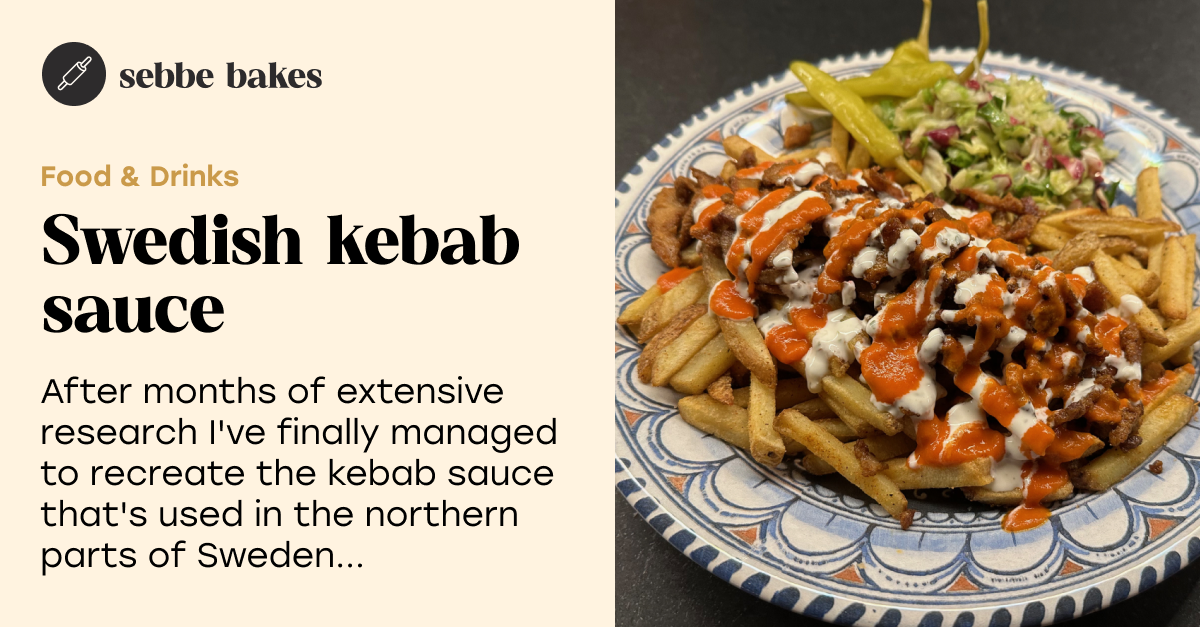
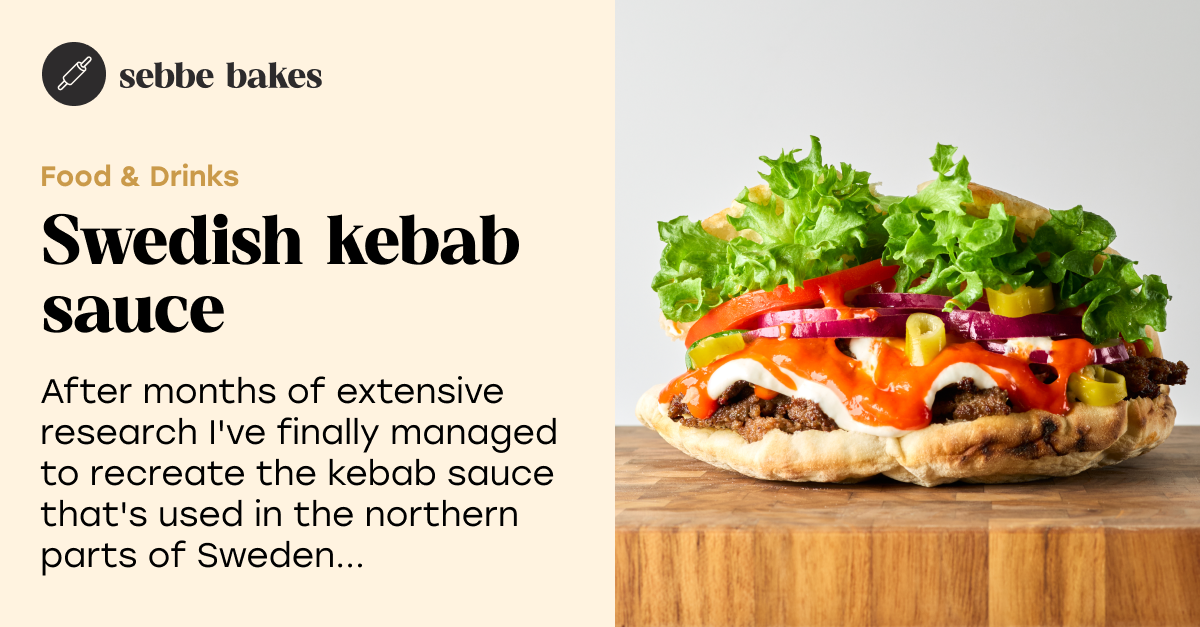
Update kebab images

diff --git a/src/constants/recipes.ts b/src/constants/recipes.ts
@@ -365,9 +365,9 @@ export const RECIPES: Recipe[] = [
     url: "/food-and-drinks/swedish-kebab-sauce",
     category: CATEGORIES["food-and-drinks"],
     thumbnails: {
-      hero: require("../../public/images/recipes/kebab-sauce/thumbnails/hero.jpg"),
-      tall: require("../../public/images/recipes/kebab-sauce/thumbnails/tall.jpg"),
-      wide: require("../../public/images/recipes/kebab-sauce/thumbnails/wide.jpg"),
+      hero: require("../../public/images/recipes/kebab-sauce/thumbnails/hero.png"),
+      tall: require("../../public/images/recipes/kebab-sauce/thumbnails/tall.png"),
+      wide: require("../../public/images/recipes/kebab-sauce/thumbnails/wide.png"),
       square: require("../../public/images/recipes/kebab-sauce/thumbnails/square.png"),
       meta: require("../../public/images/recipes/kebab-sauce/thumbnails/meta.png"),
     },

diff --git a/src/pages/food-and-drinks/swedish-kebab-sauce.tsx b/src/pages/food-and-drinks/swedish-kebab-sauce.tsx
@@ -1,7 +1,7 @@
 import React from "react";
 
 import metaImage from "public/images/recipes/kebab-sauce/thumbnails/meta.png";
-import heroImage from "public/images/recipes/kebab-sauce/thumbnails/tall.jpg";
+import heroImage from "public/images/recipes/kebab-sauce/thumbnails/tall.png";
 
 import { Badge } from "components/Badge/Badge";
 import { Ingredients } from "components/Ingredients/Ingredients";
